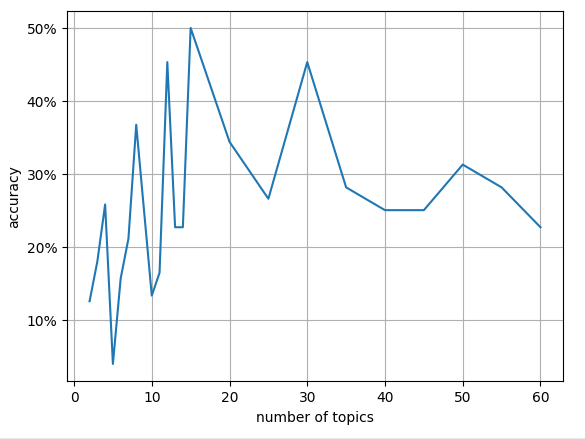
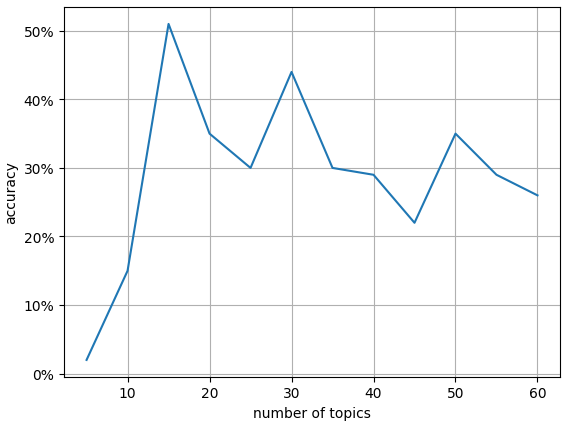
Fixed wrong filtering direction, added filtering to text.

Changed region(s): [[0.0, 0.0, 0.9846, 1.0], [0.4923, 0.6986, 0.5538, 0.7593]]

diff --git a/text/50-unsupervised/50-unsupervised.tex b/text/50-unsupervised/50-unsupervised.tex
@@ -23,10 +23,10 @@ Figure~\ref{fig:topic_modelling_schema} illustrates the modelling and assigment 
     \caption{Schematic of the topic modelling setup with \gls{lda}: Many models for different numbers $\ntopics$ of topics are trained, each of them yields a list of topics that are characterized by topic words, as well as topic probabilities for each article.}\label{fig:topic_modelling_schema}
 \end{figure}
 
-The \gls{lda} algorithm depends on a set of hyperparameters, most of which are related to its underlying optimization process.  Sensible values for these were found by trial and error. The one hyperparameter that is crucial for the interpretation of this analysis is $\ntopics$. It determines the granularity of the topics the model provides for the comparison of the low- and high-\gls{ses} groups. The trade-off between a low and a high number of topics is expected to be a well-graspable set of topics with considerable overlaps and therefore poor specificity for low $\ntopics$, in contrast to highly delimited niche-topics suffering from a lack of generality for high $\ntopics$. For choosing an appropriate $\ntopics$ in this work, it was required that the topics assigned to articles be consistent for small variations of $\ntopics$, since only then it can be assumed that the assignment of the articles to the low- and high-\gls{ses} groups will not just be a random effect. The search for an optimal number of topics included introducing of so-called \textit{hypertopics} to make model output topics comparable as well as assessing ranges for $\ntopics$ with respect to hypertopic accuracy and consistency of the \gls{ses} assignment.
+The \gls{lda} algorithm depends on a set of hyperparameters, most of which are related to its underlying optimization process.  Sensible values for these were found by trial and error. The one hyperparameter that is crucial for the interpretation of this analysis is $\ntopics$. It determines the granularity of the topics the model provides for the comparison of the low- and high-\gls{ses} groups. The trade-off between a low and a high number of topics is expected to be a well-graspable set of topics with considerable overlaps and therefore poor specificity for low $\ntopics$, in contrast to highly delimited niche-topics suffering from a lack of generality for high $\ntopics$. For choosing an appropriate $\ntopics$ in this work, it was required that the topics assigned to articles be consistent for small variations of $\ntopics$, since only then it can be assumed that the assignment of the articles to the low- and high-\gls{ses} groups will not just be a random effect.\todo{clearer} The search for an optimal number of topics included introducing of so-called \textit{hypertopics} to make the topics comparable as well as assessing ranges for $\ntopics$ within which the hypertopic accuracy and the \gls{ses} assignment were consistent.
 
 \paragraph{Assigning Hypertopics}
-As the model output topics are only defined by a list of characterizing words, the individual topics can overlap in term of their meaning (e.g. different kinds of sport), and the topics obtained for different $\ntopics$ cannot be compared without human intuition. In order to still be able to compare the model outputs for different $\ntopics$, each topic was manually assigned one of the four \textit{hypertopics} movie, music, sport, and life (with life being intended as a miscellaneous category for all topics not covered by the other three hypertopics). These four hypertopics were heuristically selected while examining the model output topics. Each article $i$ with topic $t$ was by that means also assigned a hypertopic $h$:
+As the model output topics are only defined by a list of characterizing words, the individual topics can overlap in term of their meaning (e.g. different kinds of sport), and the topics obtained for different $\ntopics$ cannot be compared without human intuition. In order to still be able to compare the model outputs for different $\ntopics$, each topic was manually assigned one of the four \textit{hypertopics} movie, music, sport, and life (with life being intended as a miscellaneous category for all topics not covered by the other three hypertopics). These four hypertopics were heuristically selected while examining the model output topics. Each article $i$ with topic $t$ was assigned a hypertopic $h$:
 \begin{align}
     h_i = h(t_i)
 \end{align}
@@ -50,11 +50,9 @@ Table~\ref{tab:hypertopics} shows examples of the model output topics and their 
     \caption{Example of model output topics and their respective hypertopics. Comparing the \textit{sport} hypertopic examples for $\ntopics = 5$ and $\ntopics = 50$ shows how a larger amount of model topics makes the topics more specific, here by referencing a particular sport and a particular sports club.}\label{tab:hypertopics}
 \end{table}
 
-With every article associated to a hypertopic, it is possible to compare the distribution of articles and \gls{ses} groups across hypertopics for different $\ntopics$ as well as verifying topic assignments with the human-annotated data.
+With every article associated to a hypertopic, it was possible to compare the distribution of articles and \gls{ses} groups across hypertopics for different $\ntopics$, as well as to verify how accurately the topic models had assigned topics to the articles using the human-annotated data.
 
 \paragraph{Accuracy and Consistency}
-In the next step, the accuracy of the topic models was assessed with the human-annotated data and the consistency of the predictions for different $\ntopics$.
-
 The accuracy of the hypertopic assignment was calculated as the ratio of articles with correct hypertopic assignment by the model and all articles that were human-annotated:
 \begin{align}
     acc = \frac{
@@ -68,12 +66,12 @@ The accuracy of the hypertopic assignment was calculated as the ratio of article
     }
 \end{align}
 
-Figure~\ref{fig:accuracy_by_ntopics} reveals that the accuracy is not steady across different $\ntopics$ and comparably low.
+Figure~\ref{fig:accuracy_by_ntopics} shows that the accuracy greatly depends on $\ntopics$ with a maximum of abount \SI{50}{\percent} at $\ntopics=15$.
 
 \begin{figure}
     \centering
     \includegraphics[scale=0.5]{\imagepath/acc_by_n_topic_modelling.png}
-    \caption{Accuracy of the model-assigned hypertopics compared to human-annotated data as a function of the number of topics: The accuracy is comparably low and not consistent across the different numbers of topics.\todo[inline]{replace}}\label{fig:accuracy_by_ntopics}
+    \caption{Accuracy of the model-assigned hypertopics compared to human-annotated data as a function of the number of topics: A maximum accuracy of around \SI{50}{\percent} was achieved for $\ntopics=15$.The accuracy not consistent across the different numbers of topics.\todo[inline]{replace}}\label{fig:accuracy_by_ntopics}
 \end{figure}
 
 Additionally, the share of low-\gls{ses} articles for each assigned hypertopic was used as a measure for topic assignment consistency across $\ntopics$. This share is plotted in figure~\ref{fig:lowshare_per_ntopics}. The fact that there is no range of $\ntopics$ where this share is consistent for small variations of $\ntopics$ suggests that the assignment of articles to the hypertopics is to a considerable extent random and that the model is incapable of making a reliable prediction of an article's topic.\todo{Explain more why you took exactly this share and not anything else.} These observations did not differ significantly if the \textit{distinct-\gls{ses}} set of articles was used instead.
@@ -84,9 +82,15 @@ Additionally, the share of low-\gls{ses} articles for each assigned hypertopic w
     \caption{Share of low-\gls{ses} articles in each hypertopic across different numbers of topics: The share is not consistent over a range from \SI{5}{} to \SI{50}{} topics, indicating that the assigment of articles to topics is not very reliable. The share of low-\gls{ses} articles among all articles is shown as a reference.\todo[inline]{replace}}\label{fig:lowshare_per_ntopics}
 \end{figure}
 
-The author guesses that one of the reasons for these inconsistent variations in topic assignment is the newspaper articles operate on a very limited set of topics, roughly covered by the for hypertopics, which do expose considerable overlaps (e.g. movie-related articles having similarity to life stories, film music-related articles talking about movies). This could render the topic models incapable of capturing distinct groups of articles, rather than assigning topics seemingly randomly.
+Two potential approaches for improving accuracy and consistency were examined: Firstly, it was attempted to train the topic models on the low-\gls{ses} and high-\gls{ses} corpora separately, which, however, led to similar inconsistencies. Secondly, it was tried to filter out articles for which the model's topic assignment was ambiguous. As a measure for the ambiguity in topic assignment for article $i$ with topic probabilities $p_{i, t}$, the information theoretical entropy was used:
+\begin{align}
+    H_i = \sum_t p_{i, t} \ln p_{i,t}
+\end{align}
+The entropy is low if the probability distribution clearly favors a specific topic, and it is high if the probabilities $p_{i, t}$ are rather ambiguous. After filtering out articles where the $H_i$ is higher than the \SI{50}{\percent}- or \SI{30}{\percent}-percentile of all articles, high accuracies of up to \SI{70}{\percent} were reached, however the consistency problem persisted and due to filtering out articles some hypertopics were not present among the remaining articles at all in some cases.
 
-As a potential fix, training topic models on the low-\gls{ses} and high-\gls{ses} corpora separately was tried, but led to similar inconsistencies. Instead, the topic modelling approach was enhanced by the use of a pretained transformer model providing semantic embeddings as described in the next section.
+The author guesses that one of the reasons for the inconsistent variations in topic assignment is the newspaper articles operate on a very limited set of topics, roughly covered by the four hypertopics, which do expose considerable overlaps (e.g. movie-related articles having similarity to life stories, film music-related articles talking about movies). This could render the topic models incapable of capturing distinct groups of articles, rather than assigning topics seemingly at random.
+
+As the quality of the topic modelling approach could not be substantially improved without the scope of \gls{lda}, the modelling process was enhanced by adding pretained transformer model providing semantic embeddings as described in the next section.
 
 \section{Improvement with a Pretrained Model}
 In order to mitigate the issue that the \gls{lda} topic model was apparently incapable of consistenly separating articles by their meaning, a pretrained semantic embedding model was added to the modelling process. In this way, the process of finding the topics

diff --git a/code/evaluation/eval_topic_modelling.py b/code/evaluation/eval_topic_modelling.py
@@ -64,12 +64,12 @@ def find_articles_per_SES(articles: pd.DataFrame, column='content') -> tuple:
 
 
 def filter_out_low_entropy_labels(articles: pd.DataFrame, percentile: float, topic_columns: list) -> pd.DataFrame:
-    """Set the label of all 
+    """Set the label of all articles with entropy above a certain percentil to nan.
 
     Args:
         articles (pd.DataFrame): articles
         topic_columns (list): list of all topic columns to filter for
-        percentile (float): Entropy percentile below which everying is to be filtered out. Between 0.0 and 1.0.
+        percentile (float): Entropy percentile above which everying is to be filtered out. Between 0.0 and 1.0.
 
     Returns:
         list: Article ids, their category values and their entropies that have entropy lower than the percentile.
@@ -77,7 +77,7 @@ def filter_out_low_entropy_labels(articles: pd.DataFrame, percentile: float, top
     articles = articles.copy()
     for column in topic_columns:
         percentile_boundary = np.percentile(articles[f'{column}_entropy'], 100*percentile)
-        articles[column] = articles[column].mask(articles[f'{column}_entropy'] < percentile_boundary)
+        articles[column] = articles[column].mask(articles[f'{column}_entropy'] > percentile_boundary)
     return articles
 
 
@@ -93,9 +93,10 @@ def find_topic_distributions(articles: pd.DataFrame, columns: list) -> dict:
     """
     topic_distributions = {}
     for n_topics_column in columns:
-        topic_distribution = pd.DataFrame(data=None, index=articles[n_topics_column].unique(), columns=['low', 'high'])
-        topic_distribution['low'] = articles[articles['low_ses']].groupby(n_topics_column).count()['content']
-        topic_distribution['high'] = articles[articles['high_ses']].groupby(n_topics_column).count()['content']
+        n_topic_articles = articles[~articles[n_topics_column].isna()]
+        topic_distribution = pd.DataFrame(data=None, index=n_topic_articles[n_topics_column].unique(), columns=['low', 'high'])
+        topic_distribution['low'] = n_topic_articles[n_topic_articles['low_ses']].groupby(n_topics_column).count()['content']
+        topic_distribution['high'] = n_topic_articles[n_topic_articles['high_ses']].groupby(n_topics_column).count()['content']
         topic_distributions[n_topics_column] = topic_distribution
     return topic_distributions
 
@@ -482,4 +483,11 @@ hypertopics_distributions_filtered = find_topic_distributions(article_hypertopic
 plot_hypertopic_distribution_by_n(hypertopics_distributions_filtered, hypertopics, articles_per_SES=find_articles_per_SES(articles_filtered))
 # %%
 plot_accuracy_by_n(article_hypertopics_filtered, human_annotated)
+# %%
+to_evaluate = 'topic_15'
+plot_topic_distribution(hypertopics_distributions_filtered[to_evaluate])
+print(chi2_contingency_test(hypertopics_distributions_filtered[to_evaluate]))
+print(chi2_per_label_test(hypertopics_distributions_filtered[to_evaluate], find_articles_per_SES(articles_filtered, to_evaluate)))
+
+
 # %%

diff --git a/code/evaluation/eval_zero_shot.py b/code/evaluation/eval_zero_shot.py
@@ -78,20 +78,20 @@ def find_articles_per_SES(articles: pd.DataFrame, column='content') -> tuple:
 
 
 def filter_out_low_entropy_labels(articles: pd.DataFrame, percentile: float, category_columns: list) -> pd.DataFrame:
-    """Set the label of all 
+    """Set the label of all cateogories with entropy above a certain percentile to nan.
 
     Args:
         articles (pd.DataFrame): articles
         category_columns (list): list of all category columns to filter for
-        percentile (float): Entropy percentile below which everying is to be filtered out. Between 0.0 and 1.0.
+        percentile (float): Entropy percentile above which everying is to be filtered out. Between 0.0 and 1.0.
 
-    Returns:
+    Returns:articles_filtered[~articles_filtered['topic_60'].isna()]['topic_60_entropy'].mean()
         list: Article ids, their category values and their entropies that have entropy lower than the percentile.
     """
     articles = articles.copy()
     for column in category_columns:
         percentile_boundary = np.percentile(articles[f'{column}_entropy'], 100*percentile)
-        articles[column] = articles[column].mask(articles[f'{column}_entropy'] < percentile_boundary)
+        articles[column] = articles[column].mask(articles[f'{column}_entropy'] > percentile_boundary)
     return articles
 
 
@@ -251,6 +251,6 @@ evaluate_category(articles_distinct, 'prosociality', articles_per_SES=find_artic
 
 
 # %%
-filtered_articles = filter_out_low_entropy_labels(articles, 0.3, category_columns)
+filtered_articles = filter_out_low_entropy_labels(articles, 0.8, category_columns)
 evaluate_category(filtered_articles, 'topic_l', articles_per_SES=find_articles_per_SES(filtered_articles, column='topic_l'), human_annotated=human_annotated, is_distinct=False)
 # %%
